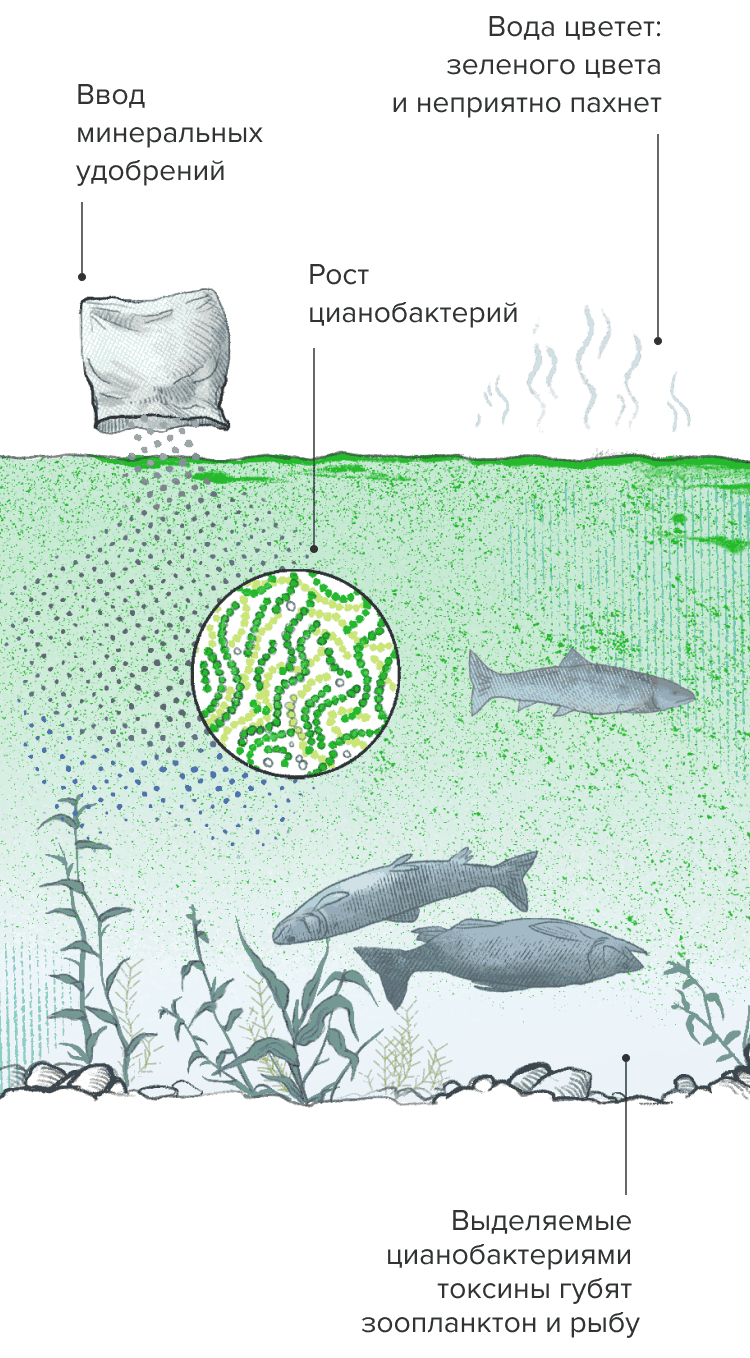
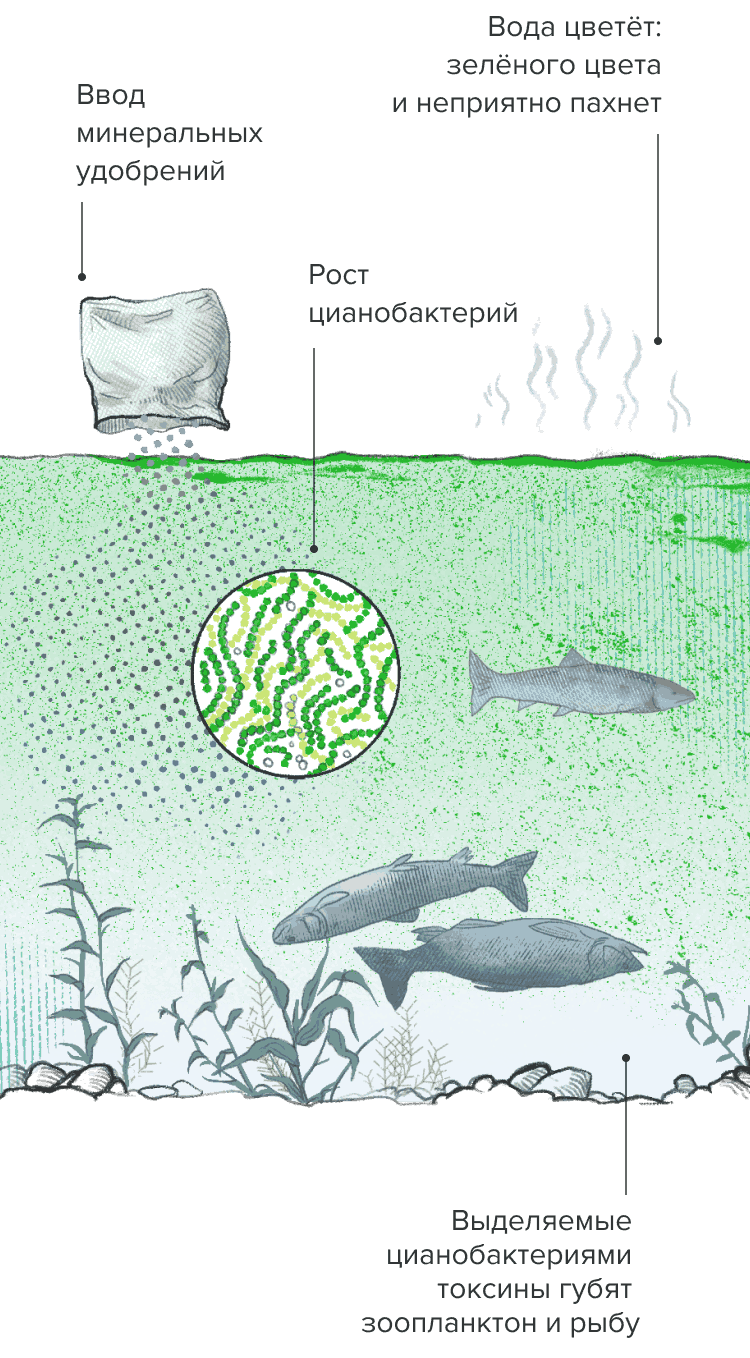
2page

diff --git a/src/pages/ExpeditionPage.vue b/src/pages/ExpeditionPage.vue
@@ -151,7 +151,8 @@
                     <div class="number-blocks text-block__wrap">
                         <BaseNumberBlock :textTop="'6 рек'" :textBottom="'посетили в ходе экспедиции'"/>
                         <BaseNumberBlock :textTop="'> 1 000 км'" :textBottom="'преодолели по земле, воде и воздуху'"/>
-                        <BaseNumberBlock :textTop="'2&nbsp;000&nbsp;проб'" :textBottom="'собрали в процессе исследований'"/>
+                        <BaseNumberBlock :textTop="'2&nbsp;000&nbsp;проб'"
+                                         :textBottom="'собрали в процессе исследований'"/>
                     </div>
 
                     <BaseTextBlock class="mb-40">
@@ -182,8 +183,8 @@
                     <div class="step-start__title">Второй этап</div>
                     <div class="step-start__period">июль – сентябрь 2021 года</div>
                     <div class="step-start__descr">
-                        Второй этап Большой Норильской экспедиции стартовал летом 2021 года. В состав двух отрядов —
-                        «Наземные экосистемы» и «Водные экосистемы» — вошли 29 ученых, представлявших 11 научных
+                        Второй этап Большой Норильской экспедиции стартовал летом 2021 года. В состав двух отрядов:
+                        «Наземные экосистемы» и «Водные экосистемы» — вошли 29 учёных, представлявших 11 научных
                         организаций
                         СО РАН. Специалисты должны были:
                     </div>
@@ -206,7 +207,7 @@
                         <div class="step-start__item">
                             <div class="step-start__item-number">2</div>
                             <div class="step-start__item-descr">
-                                Оценить эффективность восстановления биоразнообразия
+                                Оценить эффективность восстановления экосистем
                             </div>
                         </div>
                     </div>
@@ -241,24 +242,31 @@
                         </li>
                     </ul>
                     <picture>
+                        <source media="(max-width: 768px)" srcset="img/map-rivers-mobile.png">
+                        <source media="(max-width: 768px)" type="image/webp" srcset="img/map-rivers-mobile.webp">
+                        <source type="image/webp" srcset="img/map-rivers.webp">
                         <img class="step-two__img" src="img/map-rivers.png" alt="">
                     </picture>
                 </div>
                 <BaseTextBlock class="" :title="'Особенности второго этапа'">
                     <p class="text-block__descr">
                         Главным новшеством полевой программы 2021 года стали гидрологические измерения. Специалисты
-                        определили ширину, глубину и скорость течения ручья Безымянный и реки Далдыкан, куда в мае 2020
-                        года
-                        попали нефтепродукты из аварийного резервуара. Полученные данные позволили ученым рассчитать
-                        количество попавших в водные объекты загрязняющих веществ.
+                        определили ширину, глубину и&nbsp;скорость течения ручья Безымянный и&nbsp;реки Далдыкан, куда в&nbsp;мае
+                        2020 года попали нефтепродукты из&nbsp;аварийного резервуара. Полученные данные позволили учёным
+                        рассчитать количество загрязняющих веществ в&nbsp;исследованных водоёмах.
                     </p>
                 </BaseTextBlock>
-                <img class="step-two__img-measurements" src="img/measurements.png" alt="">
+                <picture>
+                    <source type="image/webp" srcset="img/measurements-mobile.webp">
+                    <img class="step-two__img-measurements" src="img/measurements.png" alt="">
+                </picture>
+
                 <BaseSidebar>
                     <p>
-                        Масштабы и последствия экологической катастрофы могли быть значительно серьезнее. Но оперативная
-                        реакция на аварию и локализация разлива нефтепродуктов позволили избежать большой беды, а также
-                        предотвратить потенциальные конфликты с местными жителями.
+                        Масштабы и&nbsp;последствия экологической катастрофы могли быть значительно серьёзнее. Но&nbsp;оперативная
+                        реакция на&nbsp;аварию и&nbsp;локализация разлива нефтепродуктов позволили избежать большой
+                        беды, а&nbsp;также
+                        предотвратить потенциальные конфликты с&nbsp;местными жителями.
                     </p>
                 </BaseSidebar>
             </SectionOrange>
@@ -269,7 +277,7 @@
                     <div class="step-start__title">Третий этап</div>
                     <div class="step-start__period">июль – сентябрь 2022 года</div>
                     <div class="step-start__descr">
-                        Участниками третьего сезона Большой Норильской экспедиции стали ученые из 14 научных организаций
+                        Участниками третьего сезона Большой Норильской экспедиции стали учёные из 14 научных организаций
                         Новосибирска, Тюмени, Томска, Красноярска и Якутска. <br/> Они поставили перед собой задачи:
                     </div>
                     <svg class="step-start__lines" width="458" height="65" viewBox="0 0 458 65" fill="none"
@@ -286,7 +294,7 @@
                             <div class="step-start__item-number">1</div>
                             <div class="step-start__item-descr">
                                 Оценить эффективность рекультивационных мероприятий,
-                                проведенных «Норникелем»
+                                проведённых «Норникелем»
                             </div>
                         </div>
                         <div class="step-start__item">
@@ -303,12 +311,12 @@
                         <p class="mb-10">
                             Рекультивацию земель специалисты &laquo;Норникеля&raquo; начали проводить в&nbsp;первые&nbsp;же
                             недели после аварии одновременно с&nbsp;очисткой водоёмов. На&nbsp;первом этапе они собирали
-                            остатки нефтепродуктов, вытекших из&nbsp;поврежденного хранилища, и&nbsp;вывозили
-                            загрязненную
+                            остатки нефтепродуктов, вытекших из&nbsp;повреждённого хранилища, и&nbsp;вывозили
+                            загрязнённую
                             почву.
                         </p>
                         <p class="mb-10">
-                            В&nbsp;2021&nbsp;&mdash; 2022 годах компания начала восстанавливать хозяйственную
+                            В&nbsp;2021-2022 годах компания начала восстанавливать хозяйственную
                             и&nbsp;экологическую ценность
                             земель и
                             водных объектов, пострадавших от&nbsp;разлива топлива.
@@ -320,7 +328,7 @@
                             Для&nbsp;этого&nbsp;компания
                             продолжает
                             рыбоводные
-                            исследования, позволяющие понять какие участки наиболее благоприятны для нереста и&nbsp;нагула
+                            исследования, позволяющие понять, какие участки наиболее благоприятны для нереста и&nbsp;нагула
                             рыб,
                             какие
                             в&nbsp;них условия. Всё это поможет понять, как повысить выживаемость мальков ценных пород
@@ -332,7 +340,7 @@
                         <p>
                             Также учёные исследуют, как микроорганизмы, проживающие на&nbsp;дне арктических озёр,
                             разлагают
-                            тяжелые
+                            тяжёлые
                             фракции нефтепродуктов. Результаты этой работы могут быть интересны мировой общественности,
                             ведь
                             никто не&nbsp;станет специально загрязнять водные экосистемы ради таких исследований,
@@ -345,11 +353,12 @@
                 </BaseTextBlock>
                 <BaseSidebar>
                     <p>
-                        Арктические экосистемы показали, что могут хорошо восстанавливаться, а микроорганизмы —
-                        эффективно
-                        очищать воду от органического загрязнения. Чтобы это происходило, необходимо снизить техногенную
-                        нагрузку. Для этого нужно модернизировать водоочистные установки и установки очистки выбросов, а
-                        также сократить выбросы диоксида серы в атмосферу.
+                        Арктические экосистемы показали, что могут хорошо восстанавливаться, а&nbsp;микроорганизмы&nbsp;&mdash;
+                        эффективно очищать воду от&nbsp;органического загрязнения. Чтобы это происходило, необходимо
+                        снизить техногенную нагрузку на&nbsp;близлежащие к&nbsp;производству территории. Для этого нужно
+                        модернизировать водоочистные установки и&nbsp;установки очистки производственных выбросов,
+                        реализовать серный проект. Иными словами, в&nbsp;полном объёме реализовать Экологическую
+                        стратегию &laquo;Норникеля&raquo;.
                     </p>
                 </BaseSidebar>
                 <div class="scena__wrap">
@@ -365,7 +374,7 @@
                     <p>
                         Большая Норильская экспедиция продлилась три года, но&nbsp;научная работа, начатая СО&nbsp;РАН
                         и&nbsp;&laquo;Норникелем&raquo;, на&nbsp;этом не&nbsp;закончилась&nbsp;&mdash; в&nbsp;2022 году
-                        сразу в&nbsp;трех регионах страны стартовала Большая научная экспедиция.
+                        сразу в&nbsp;трёх регионах страны стартовала Большая научная экспедиция.
                     </p>
                 </BaseSidebar>
             </section>
@@ -816,7 +825,7 @@ export default {
 
         &-list {
             position: absolute;
-            top: 4rem;
+            top: 5.4rem;
             left: -14.75rem;
             display: flex;
             flex-direction: column;
@@ -875,13 +884,14 @@ export default {
 
     &__img {
         margin: 2.06rem 0 4.15rem 0;
-        width: 34.3125rem;
-        height: 29.875rem;
+        width: 38.125rem;
+        height: 33.2rem;
 
         @media (max-width: 768px) {
-            margin: 0 0 21.3334rem 0;
-            width: 100%;
-            height: 94rem;
+            margin: 0 0 14.4rem 0;
+            width: 92.8rem;
+            height: 108.27rem;
+            mix-blend-mode: darken;
         }
 
         &-measurements {

diff --git a/src/components/ExpeditionScrollSwiper.vue b/src/components/ExpeditionScrollSwiper.vue
@@ -188,12 +188,15 @@ export default {
             position: static;
             width: 15rem;
 
-            @media (max-width: 768px) {
-                margin-top: 0;
-            }
-
             &:first-child {
                 width: 11rem;
+                @media (max-width: 768px) {
+                    width: unset;
+                }
+            }
+
+            @media (max-width: 768px) {
+                width: unset;
             }
         }
     }

diff --git a/src/pages/PyasinoPage.vue b/src/pages/PyasinoPage.vue
@@ -705,7 +705,6 @@ export default {
                 width: 80.3rem;
                 height: 121.5rem;
             }
-
         }
     }
 }
@@ -713,6 +712,10 @@ export default {
 .pyasino {
     .hero__descr {
         width: 46rem;
+
+        @media (max-width: 768px) {
+            width: unset;
+        }
     }
 }
 
